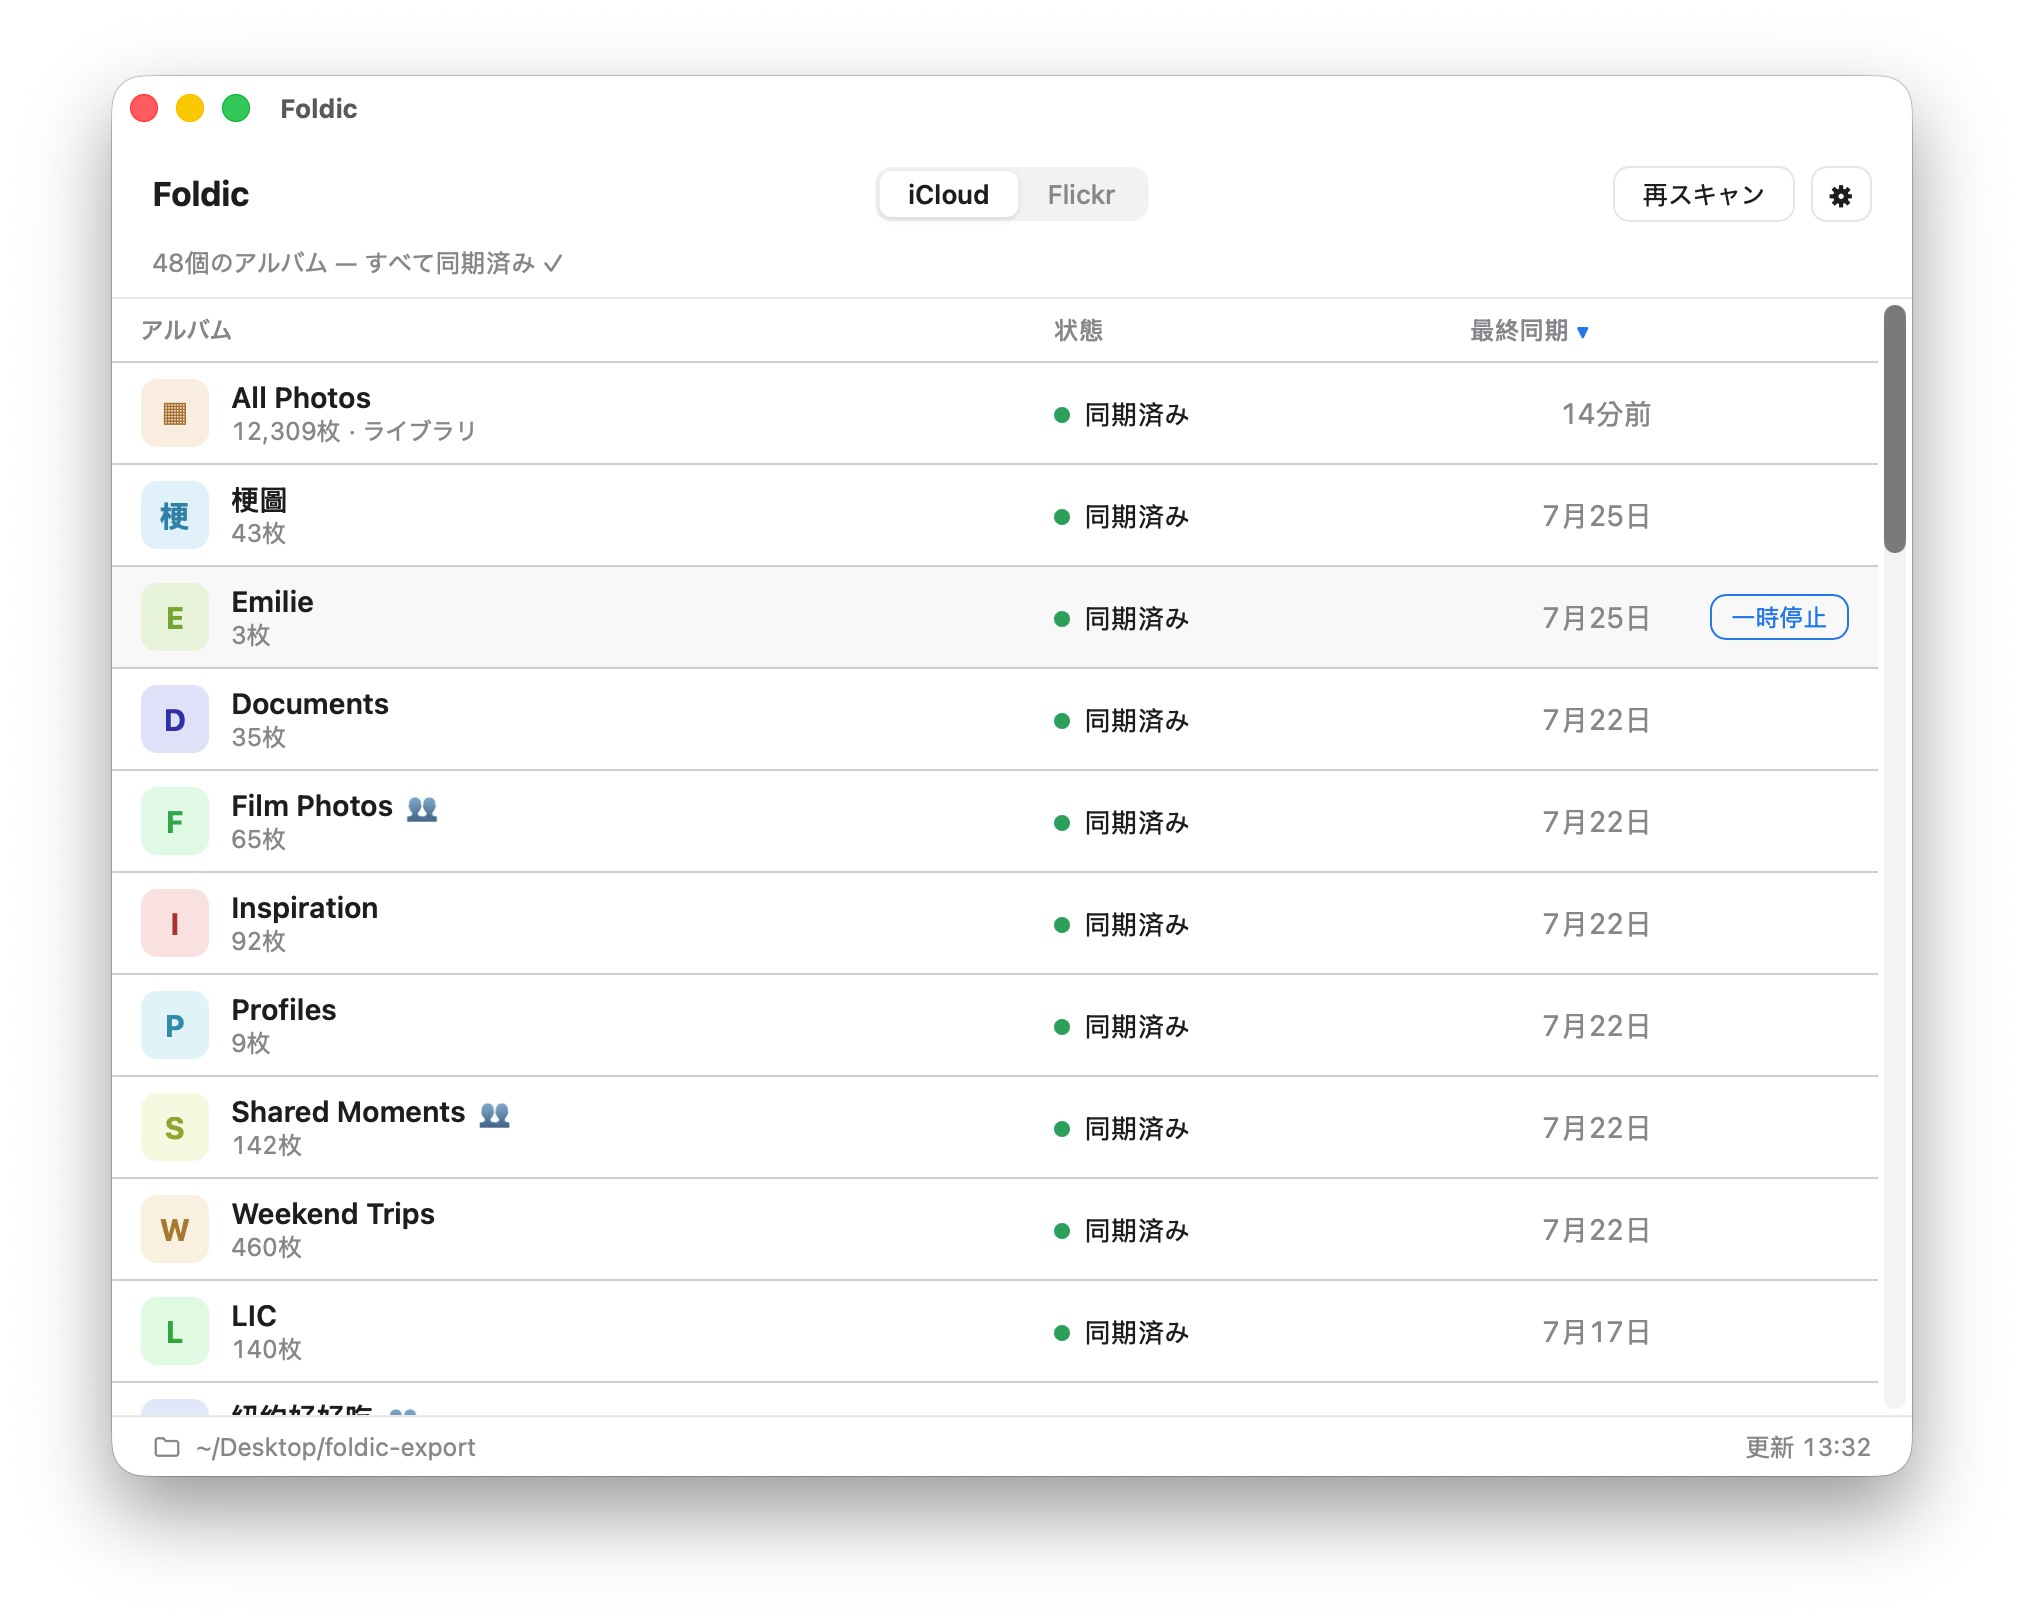
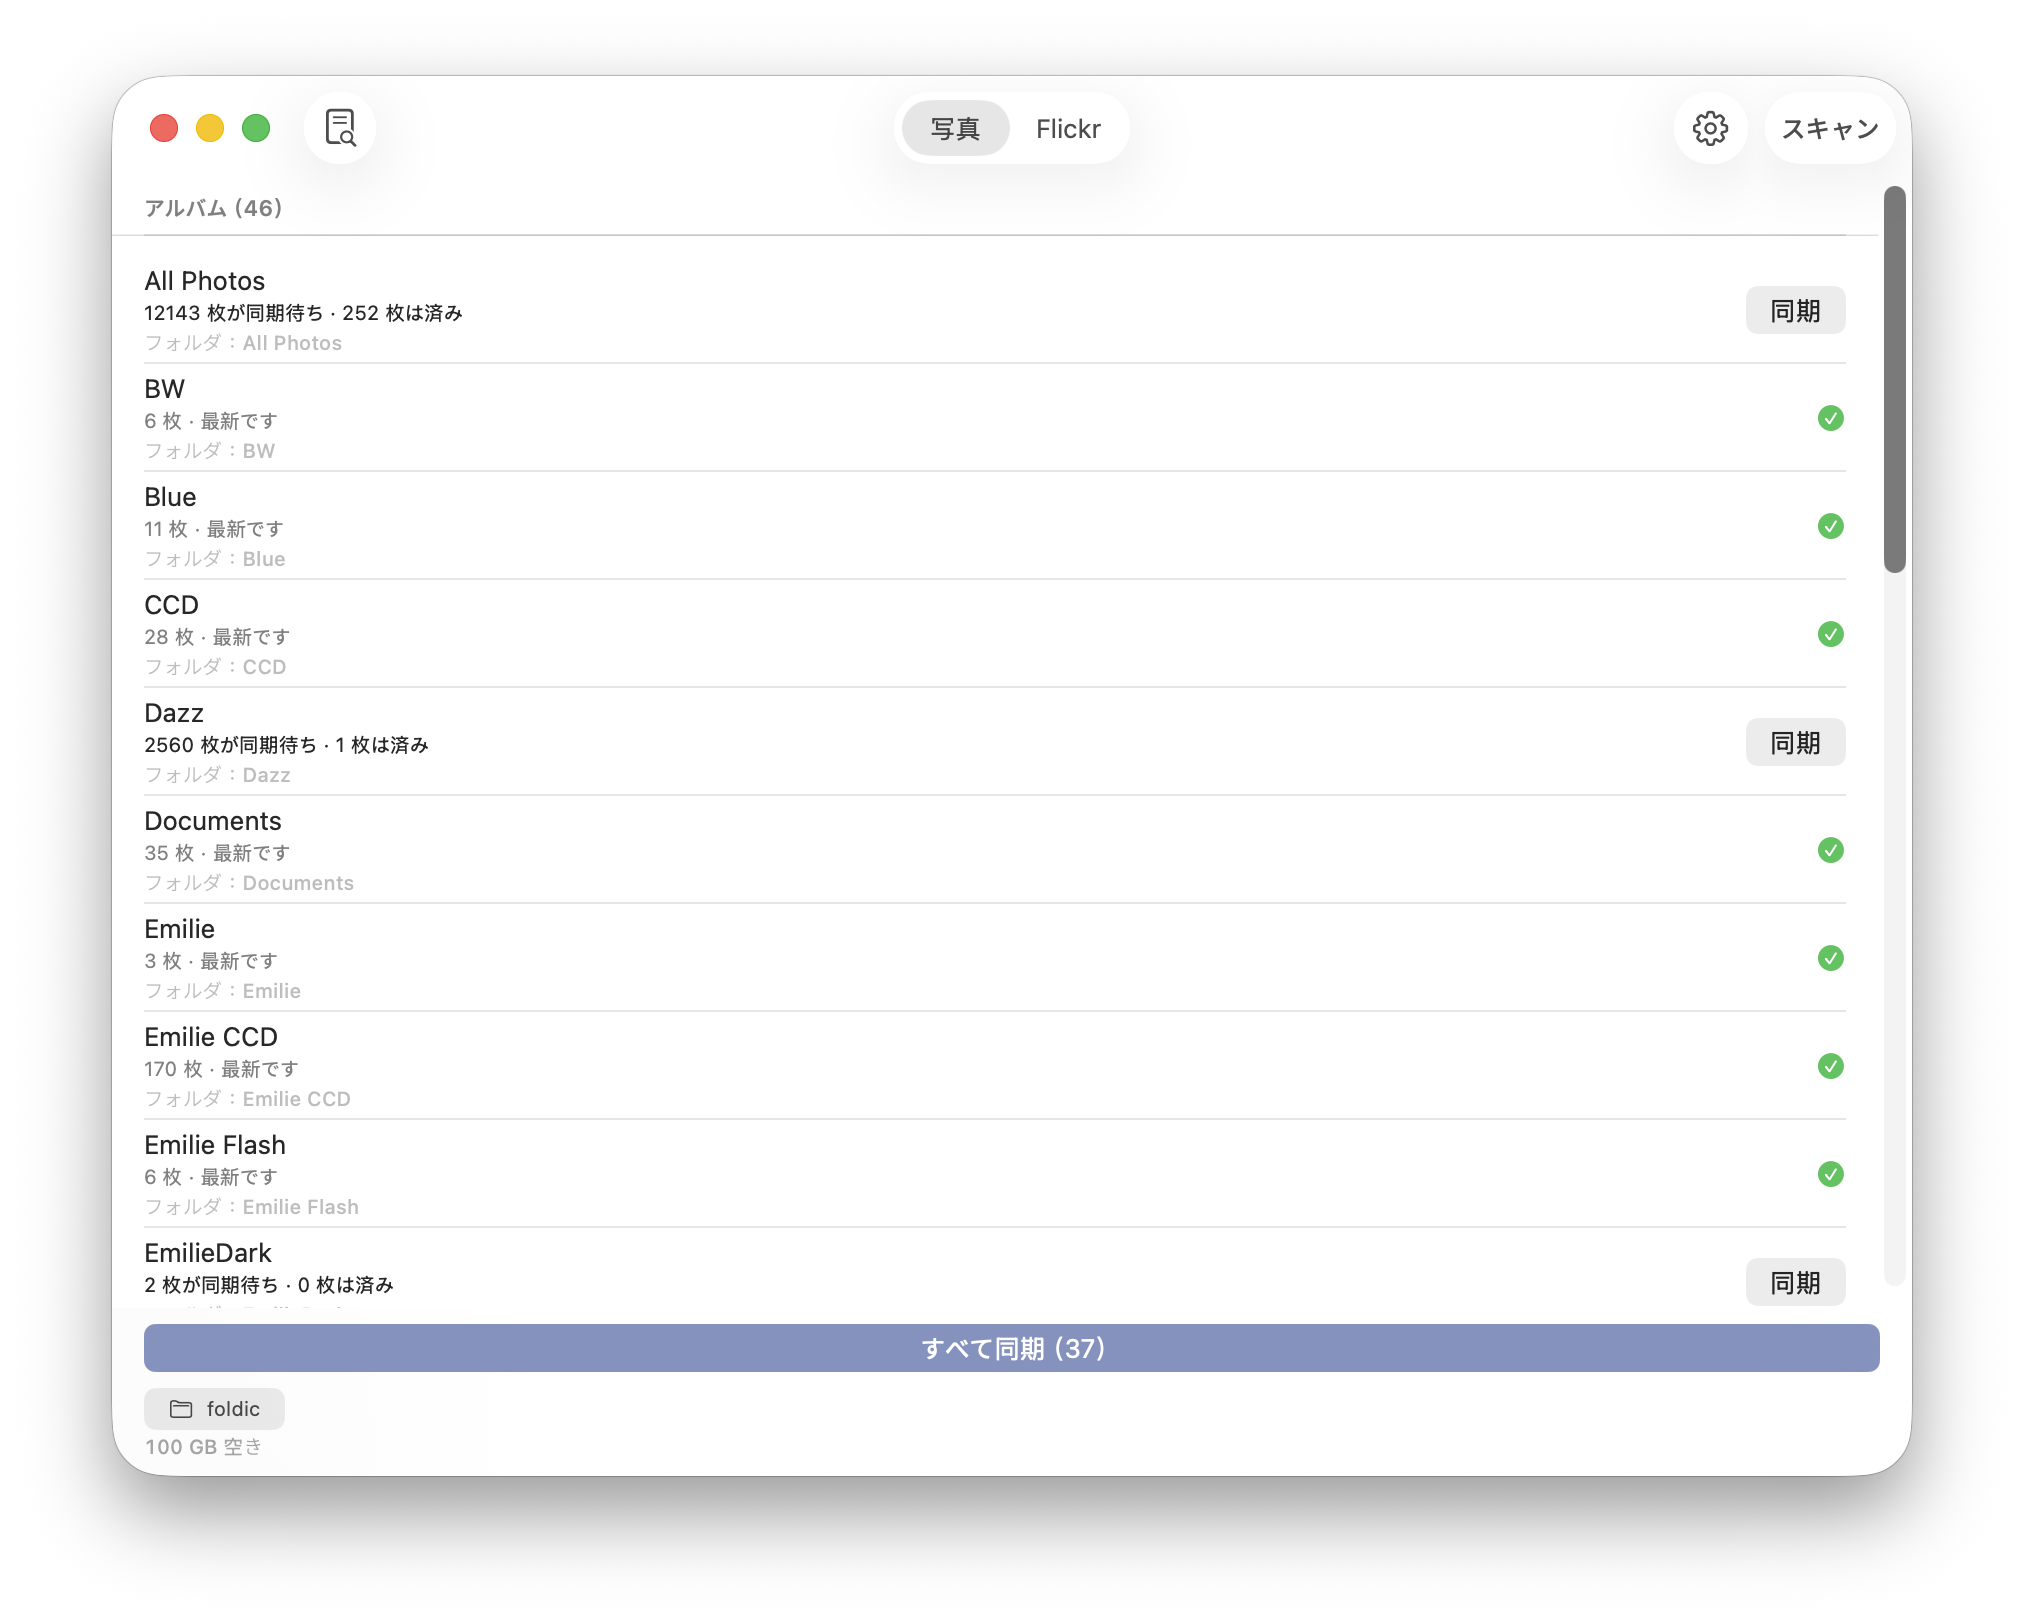
site: the Mac shots are the native app, one per language
The hero still showed the webview build while the App Store listing had already
moved on. Each language page now carries a capture of that language's interface —
including Korean, which was borrowing the English image and now has its own, in
the hero and in its OpenGraph card.

Same geometry as the assets they replace: a 1800x1400 window on a 2024x1624
canvas, shadow and rounded corners intact, so the page's own box-shadow and
border-radius sit where they did and nothing about the layout moves. The window
was set to exactly 900x700pt for all four rather than dragged by hand, so the four
pages cannot drift apart by a few pixels.

diff --git a/ko/index.html b/ko/index.html
@@ -7,7 +7,7 @@
   <meta name="description" content="Foldic는 Apple 사진 앱의 앨범(iCloud 공유 앨범 포함)을 Mac의 일반 폴더로 자동·증분 미러링합니다. 사진과 동영상 모두, 내가 소유하는 파일로.">
   <meta property="og:title" content="Foldic">
   <meta property="og:description" content="사진 앨범을 Mac의 진짜 폴더로 — 자동으로, 원본 화질 그대로.">
-  <meta property="og:image" content="https://foldic.app/app-window.png">
+  <meta property="og:image" content="https://foldic.app/app-window-ko.png">
   <meta property="og:url" content="https://foldic.app/ko/">
   <link rel="alternate" hreflang="en" href="https://foldic.app/">
   <link rel="alternate" hreflang="zh-Hant" href="https://foldic.app/zh/">
@@ -294,7 +294,7 @@
     </div>
 
     <div class="product for-mac">
-      <img src="/app-window.png" alt="앨범 목록과 동기화 상태를 표시하는 Foldic" loading="eager">
+      <img src="/app-window-ko.png" alt="앨범 목록과 동기화 상태를 표시하는 Foldic" loading="eager">
     </div>
     <div class="product for-iphone">
       <img class="phone" src="/ios-app-window.png" alt="외장 드라이브로 앨범을 복사하는 iPhone의 Foldic" loading="lazy">
